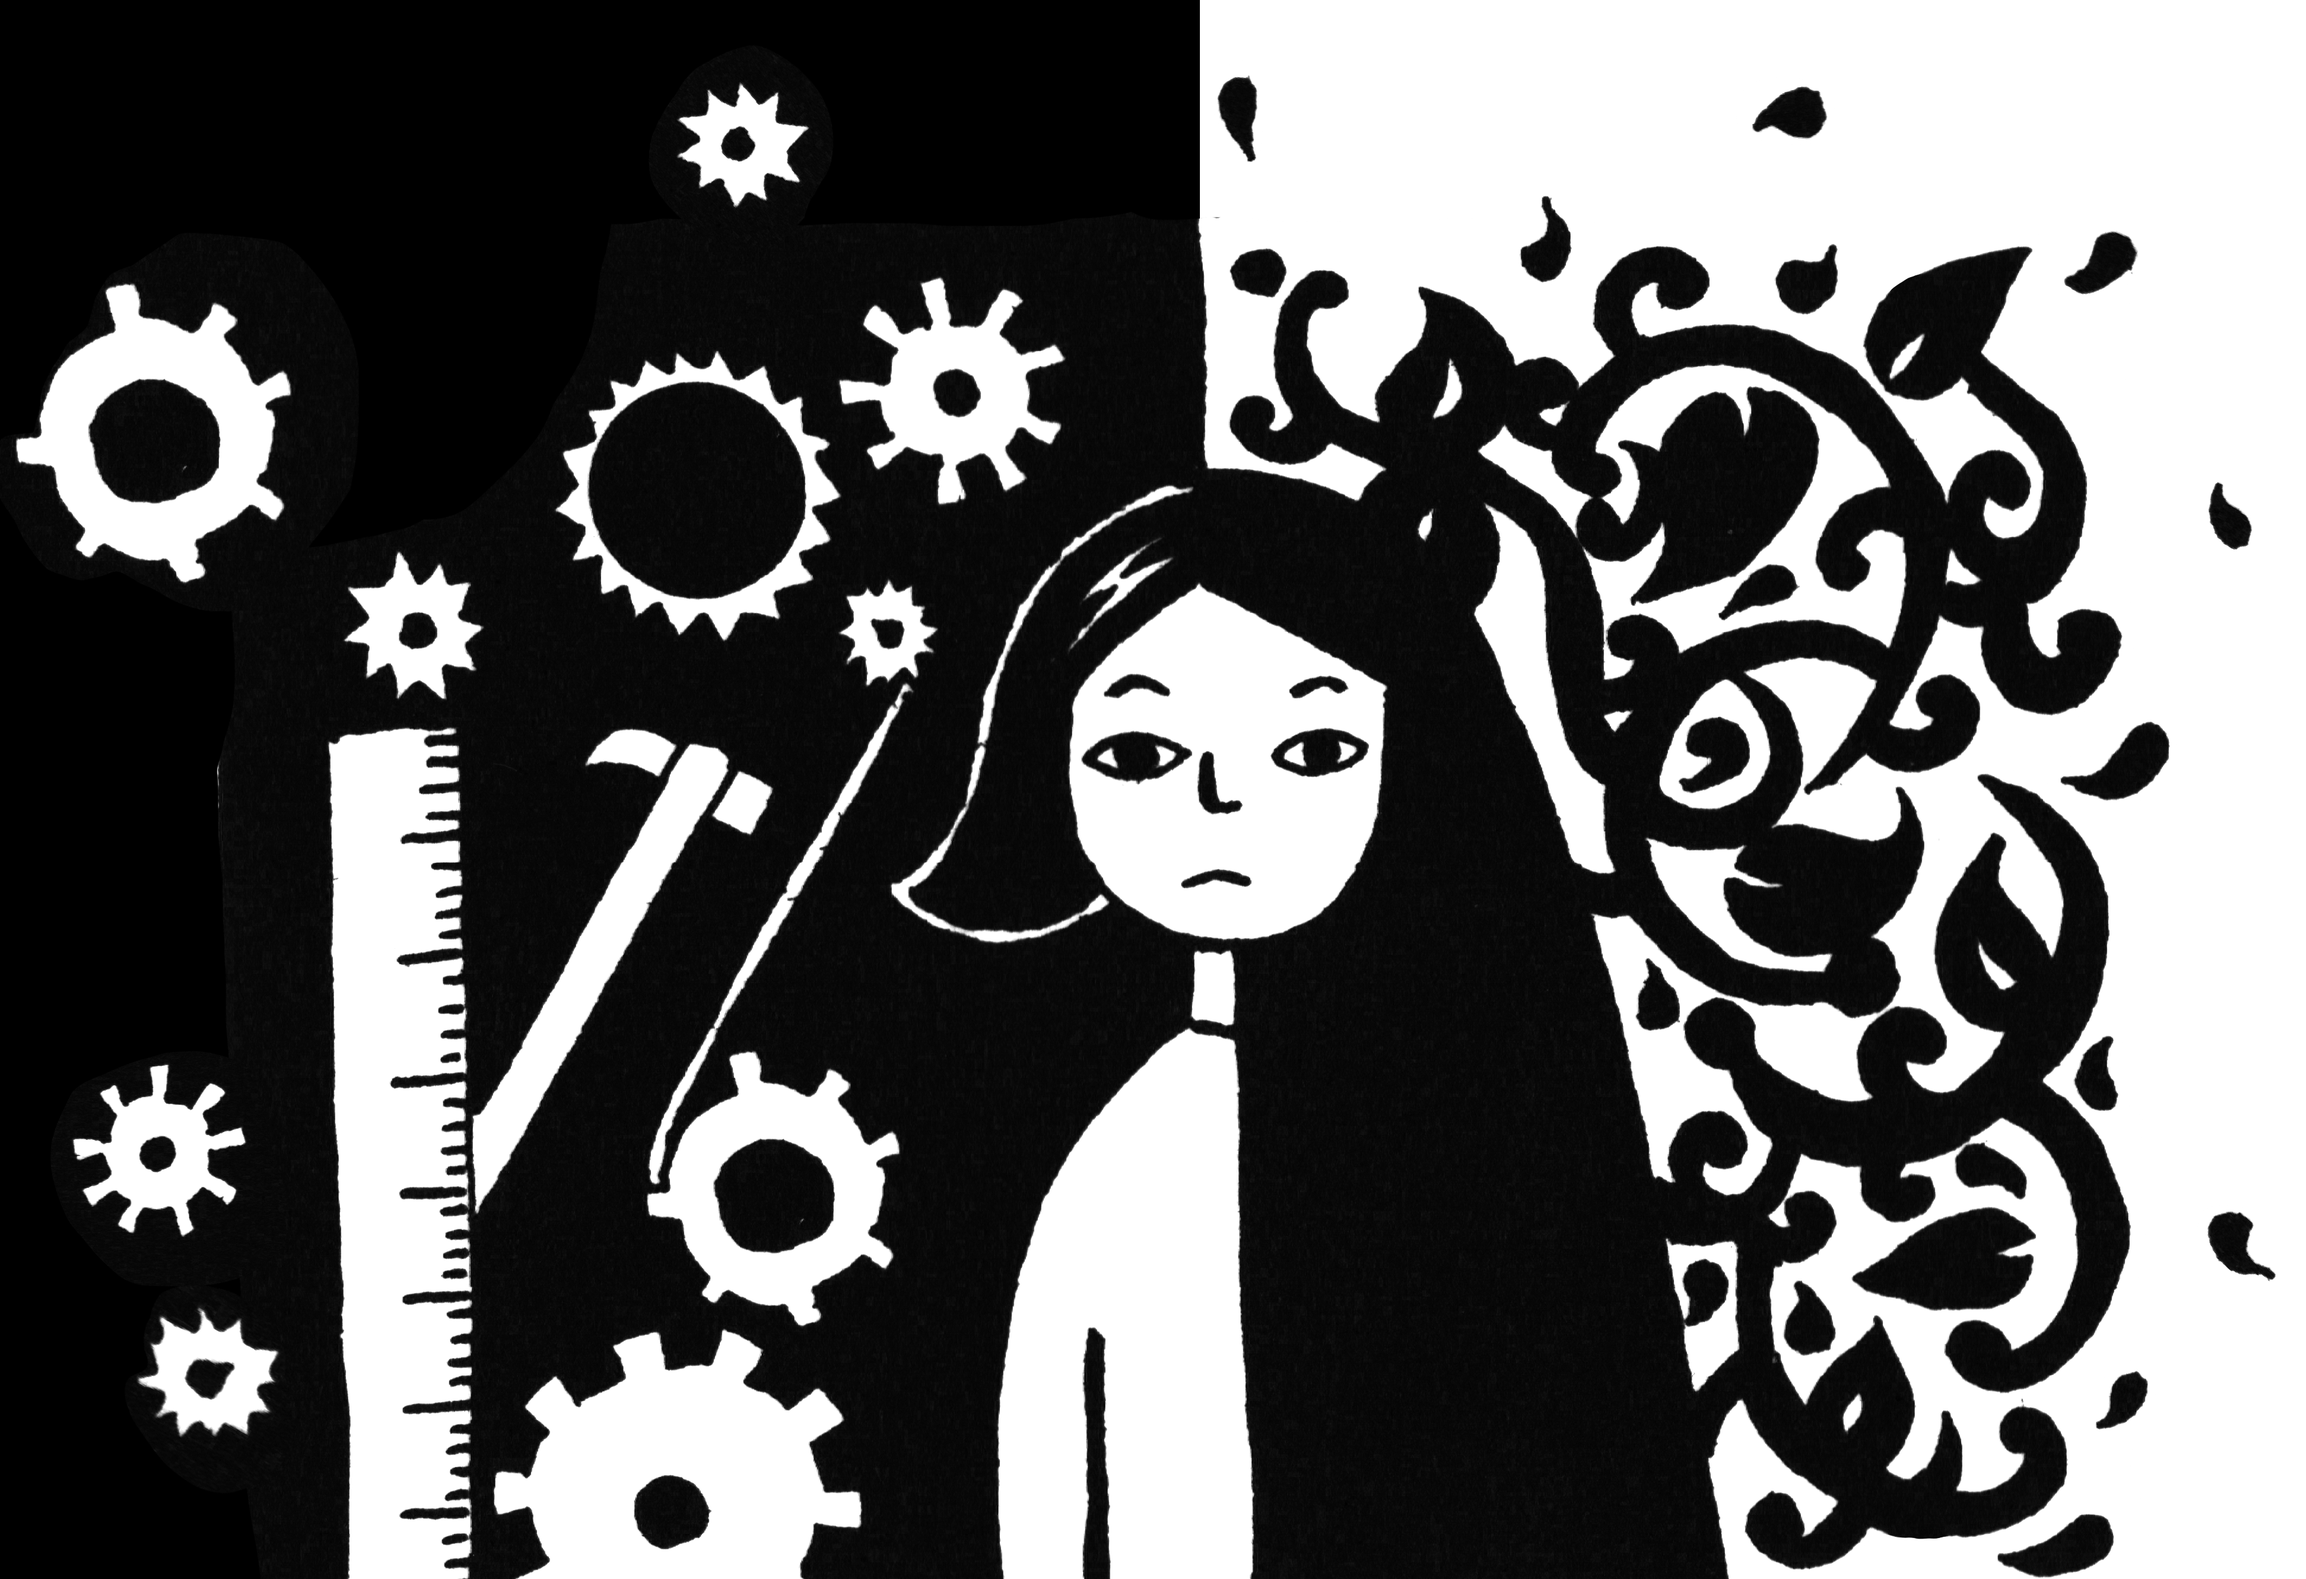
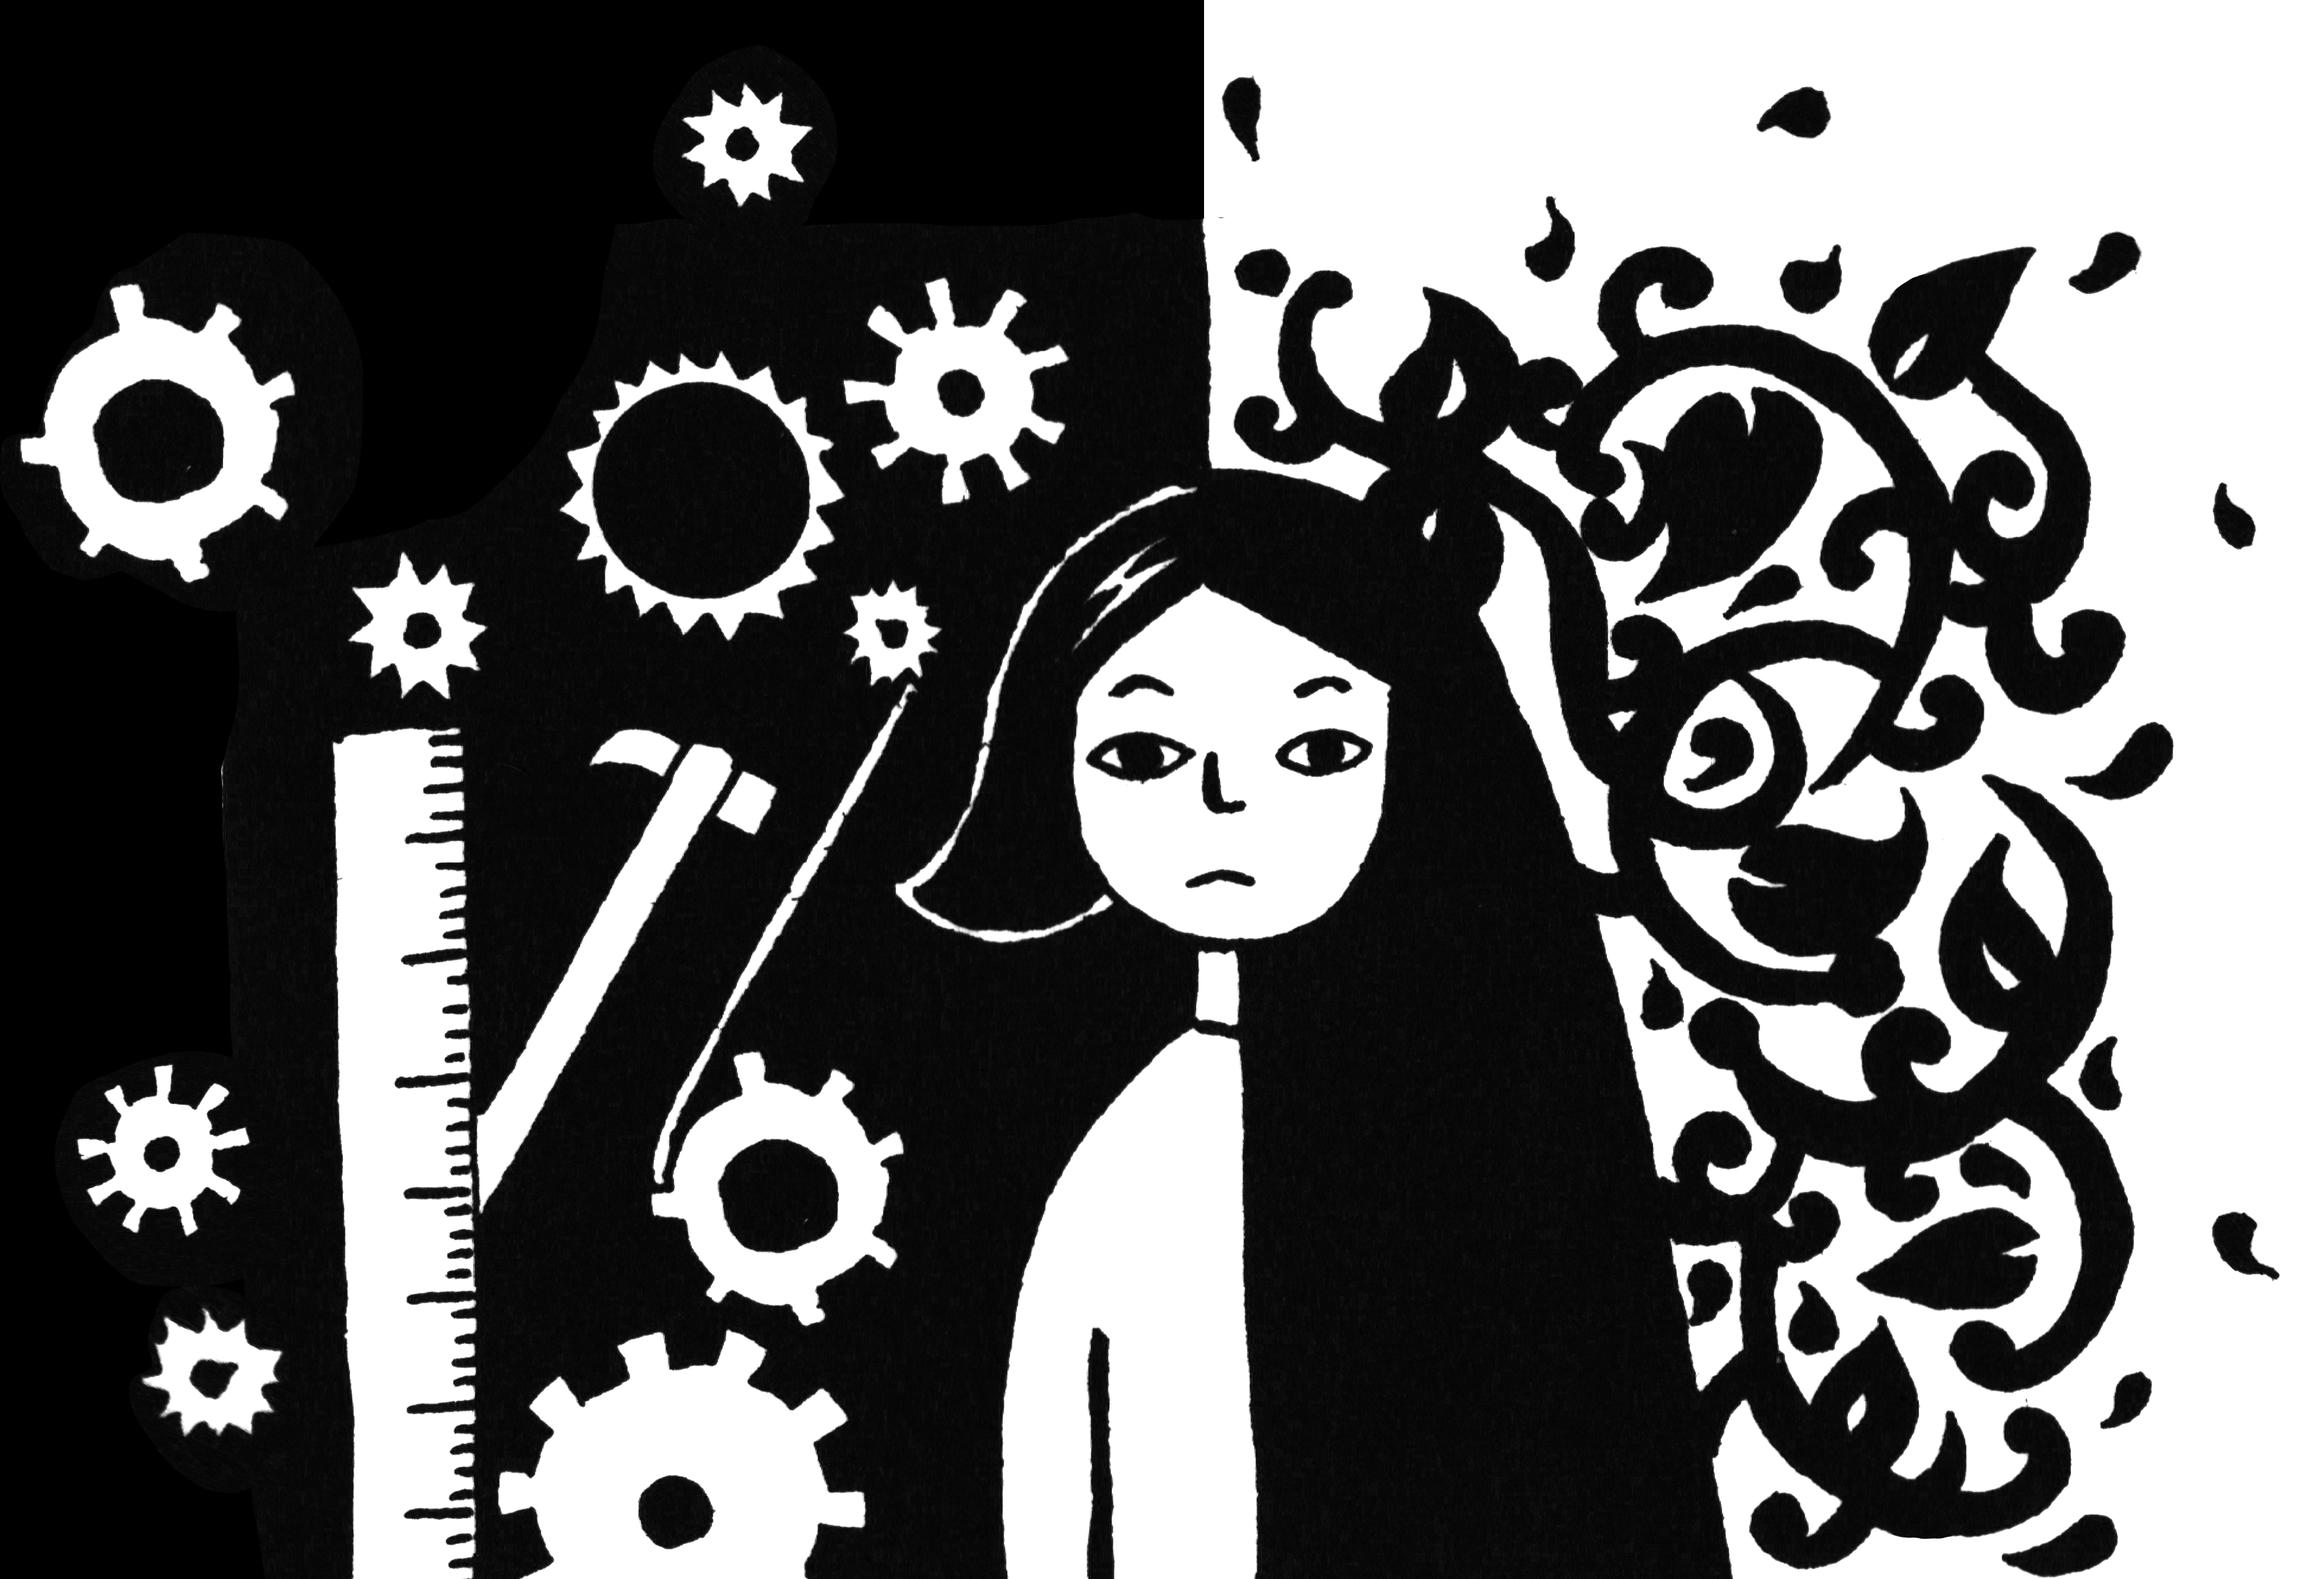
- Images remplacées par des images de bonne qualité - Intégration d'animations au hover

diff --git a/src/js/main.js b/src/js/main.js
@@ -3,13 +3,45 @@ import { ScrollTrigger } from "gsap/ScrollTrigger";
 
 gsap.registerPlugin(ScrollTrigger);
 
-document.addEventListener("DOMContentLoaded", () => {
+document.addEventListener("DOMContentLoaded", function () {
+  if (document.querySelector(".loading-page")) {
+    document.querySelector(".loading-page").remove();
+  }
+
+  //Timeline présentation
+  const tlIntroduction = gsap.timeline({
+    delay: 1,
+    repeat: -1,
+    repeatDelay: 2,
+  });
+  tlIntroduction.to(".presentation-marjane-open-eye", {
+    opacity: 0,
+    duration: 0.1,
+  });
+  tlIntroduction.to(
+    ".presentation-marjane-closed-eye",
+    { opacity: 1, duration: 0.1 },
+    "<"
+  );
+  tlIntroduction.to({}, { duration: 0.4 });
+
+  tlIntroduction.to(".presentation-marjane-closed-eye", {
+    opacity: 0,
+    duration: 0.1,
+  });
+  tlIntroduction.to(
+    ".presentation-marjane-open-eye",
+    { opacity: 1, duration: 0.1 },
+    "<"
+  );
+
+  //Scrolls horizontaux
   gsap.to(".religion-images", {
     scrollTrigger: {
       trigger: ".religion",
       start: "top top",
       pin: true,
-      scrub: true,
+      scrub: 2,
       markers: false,
     },
     x: "-265%",
@@ -21,13 +53,14 @@ document.addEventListener("DOMContentLoaded", () => {
       trigger: ".politics",
       start: "top top",
       pin: true,
-      scrub: true,
+      scrub: 2,
       markers: false,
     },
     x: "-435%",
     ease: "sine.inOut",
   });
 
+  //CTAs changement de contenu
   const religionCta = document.querySelector(".religion-cta");
   const prophetImgDefault = document.querySelector(
     ".wanted-to-be-prophet-default"

diff --git a/src/religion.html b/src/religion.html
@@ -56,8 +56,14 @@
 
         <div class="religion-img">
           <img
-            src="/img/religion/the-first-one.png?as=webp"
-            alt="Illustration en noir et blanc"
+            class="the-first-one-default"
+            src="/img/religion/the-first-one-default.png?as=webp"
+            alt="Illustration en noir et blanc de Zarathoustra avec une bulle de texte qui dit : Les trois premières règles venaient de Zarathoustra. Il fut le premier prophète de mon pays avant l'invasion arabe."
+          />
+          <img
+            class="the-first-one-after"
+            src="/img/religion/the-first-one-after.png?as=webp"
+            alt="Apparition d'une bulle de dialogue qui dit -Il va falloir baser tout sur ces trois règles: Bon comportement, bonne parole, bonne action."
           />
         </div>
 

diff --git a/src/scss/modules/_presentation.scss b/src/scss/modules/_presentation.scss
@@ -21,14 +21,27 @@
   width: 100vw;
   height: 100vh;
   position: relative;
+
   .presentation-speech-bubble {
     padding-top: 140px;
     position: absolute;
-    left: 15%;
+    left: 10%;
     top: -20%;
+    width: 30%;
+    transition: 0.3s;
   }
-  .presentation-marjane-open-eye {
-    position: absolute;
-    bottom: 0;
+  .presentation-speech-bubble:hover {
+    transform: rotate(-10deg);
   }
+}
+
+.presentation-marjane-open-eye,
+.presentation-marjane-closed-eye {
+  position: absolute;
+  bottom: -7;
+  width: 13%;
+}
+
+.presentation-marjane-closed-eye {
+  opacity: 0;
 }

diff --git a/src/introduction.html b/src/introduction.html
@@ -26,6 +26,11 @@
             src="/img/presentation-marjane-eye-open.png?as=webp"
             alt="Illustration de Marjane Satrapi à dix ans, souriante, avec les bras derrière le dos."
           />
+          <img
+            class="presentation-marjane-closed-eye"
+            src="/img/presentation-marjane-eye-closed.png?as=webp"
+            alt="Illustration de Marjane Satrapi à dix ans, souriante, avec les bras derrière le dos, clignant un oeil."
+          />
         </div>
         <a class="buy-btn btn" href="buy.html">acheter la bd</a>
       </section>

diff --git a/src/politics.html b/src/politics.html
@@ -26,13 +26,13 @@
             <button class="cta-btn politics-cta btn">a bas le roi !</button>
           </div>
         </div>
-        <div class="politics-img">
+        <div class="politics-img politics-army">
           <img
             src="/img/politics/army.png?as=webp"
             alt="Illustration en noir et blanc"
           />
         </div>
-        <div class="politics-img">
+        <div class="politics-img politics-people">
           <img
             src="/img/politics/people.png?as=webp"
             alt="Illustration en noir et blanc"

diff --git a/src/scss/modules/_homepage.scss b/src/scss/modules/_homepage.scss
@@ -14,18 +14,23 @@
   }
   .homepage-marjane-hand-down {
     position: absolute;
-    top: 0;
+    top: 20%;
+    left: 20%;
+    max-width: 50%;
   }
   .homepage-marjane-hand-up {
     position: absolute;
-    top: 0;
+    top: 20%;
+    left: 20%;
     opacity: 0;
     transition: 0.3s;
+    max-width: 50%;
   }
   .homepage-speech-bubble {
     position: absolute;
-    top: -30%;
+    top: -10%;
     opacity: 0;
+    width: 392px;
     transition: 0.3s;
   }
 

diff --git a/src/scss/_layout.scss b/src/scss/_layout.scss
@@ -7,6 +7,21 @@
   --text-font-weight: 300;
 }
 
+.loading-page {
+  background-color: var(--black);
+  color: var(--white);
+  font-family: var(--text-font-family);
+  font-weight: var(--text-font-weight);
+  font-size: 20px;
+  display: flex;
+  justify-content: center;
+  align-items: center;
+  width: 100vw;
+  height: 100vh;
+  position: fixed;
+  z-index: 100;
+}
+
 .btn {
   font-family: "Fake Nice", sans-Serif;
   font-size: 40px;

diff --git a/src/scss/modules/_politics.scss b/src/scss/modules/_politics.scss
@@ -106,10 +106,18 @@
   }
   .my-parents-after {
     display: none;
+
     &.is-active {
       display: block;
     }
   }
+}
+
+.politics-army {
+  cursor: url("/img/politics/bullet.png?as=webp"), auto;
+}
+.politics-people {
+  cursor: url("/img/politics/rock.png?as=webp"), auto;
 }
 
 .politics-towards-religion-content {

diff --git a/src/index.html b/src/index.html
@@ -16,7 +16,8 @@
       rel="stylesheet"
     />
   </head>
-  <body>
+  <body style="background-color: black">
+    <div class="loading-page"><p>chargement...</p></div>
     <main>
       <section class="homepage">
         <div class="homepage-marjane">

diff --git a/src/scss/modules/_religion.scss b/src/scss/modules/_religion.scss
@@ -116,6 +116,10 @@
   }
 }
 
-// .religion-revolution-images {
-//   position: relative;
-// }
+.the-first-one-after {
+  opacity: 0;
+  transition: 0.3s;
+}
+.the-first-one-after:hover {
+  opacity: 1;
+}
